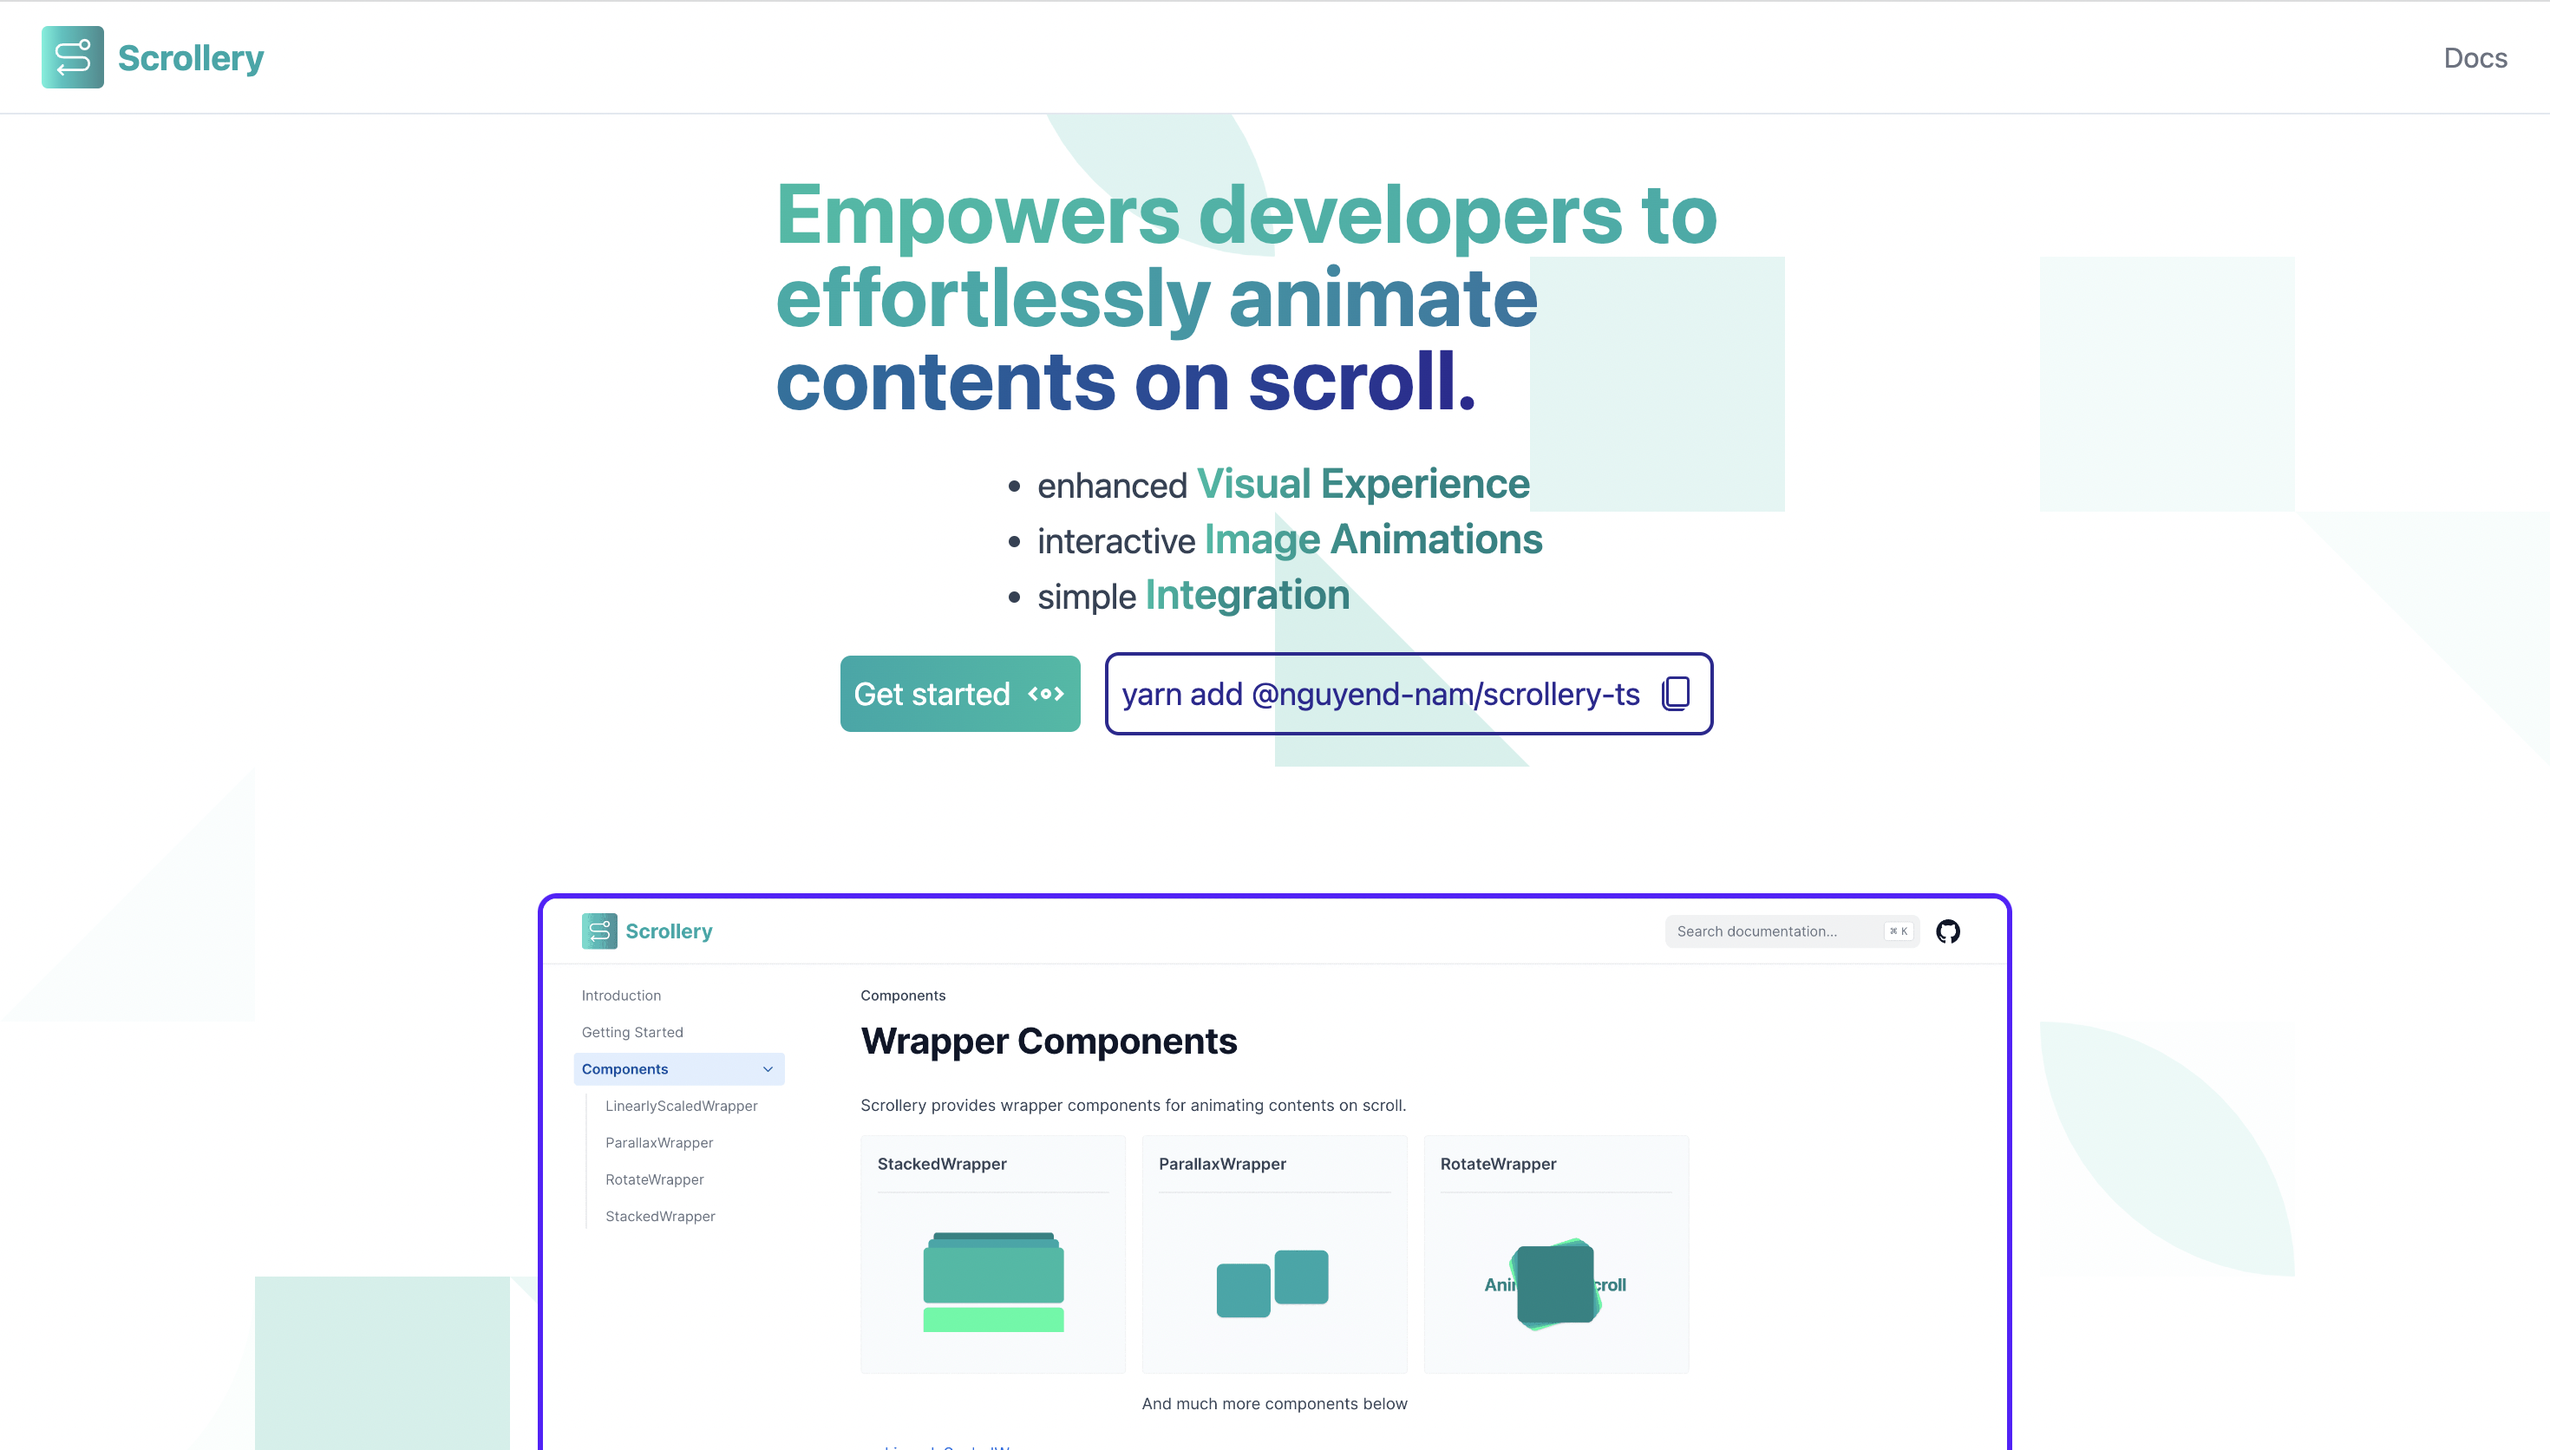
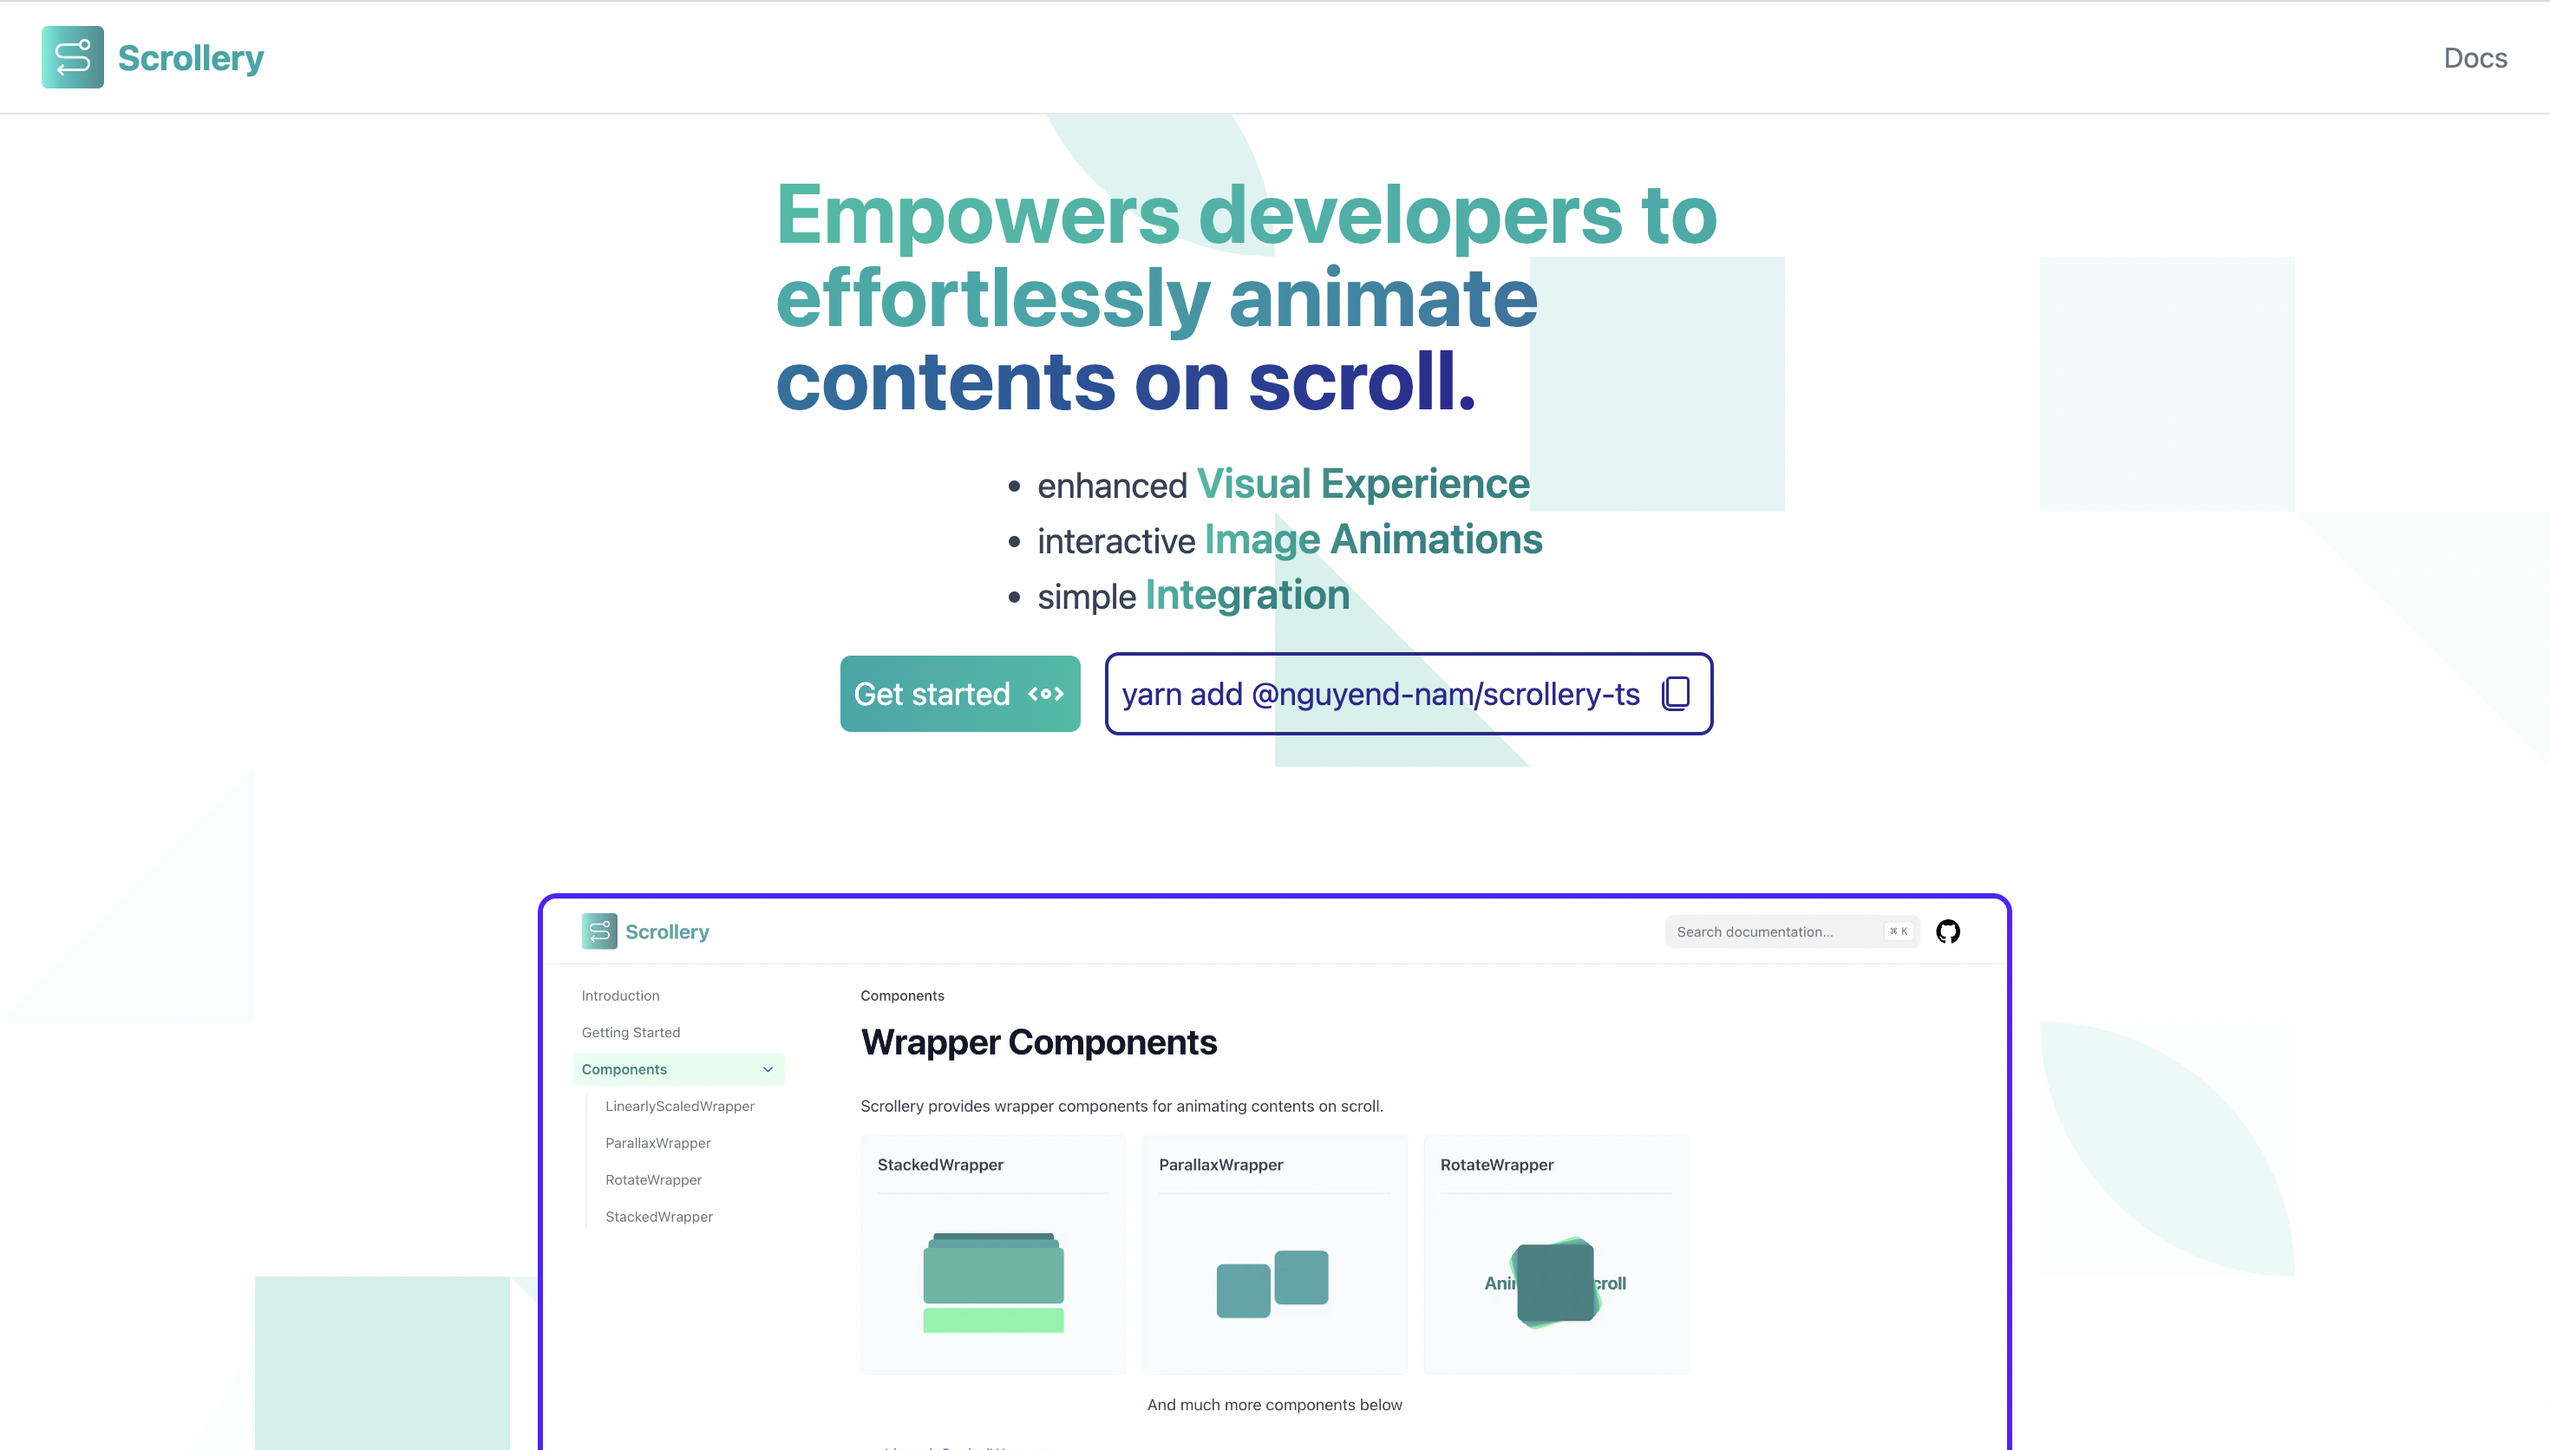
chore: update images

diff --git a/pages/index.tsx b/pages/index.tsx
@@ -141,8 +141,8 @@ export default function Home() {
               <div className="w-full h-full md:w-3/5 relative rounded-t-lg overflow-hidden ring ring-v2-purple-dark">
                 <Image
                   layout="fill"
-                  src="/document-preview.png"
-                  alt="document-preview"
+                  src="/doc-component-preview.png"
+                  alt="doc-component-preview"
                   className="object-cover object-top"
                 />
               </div>
